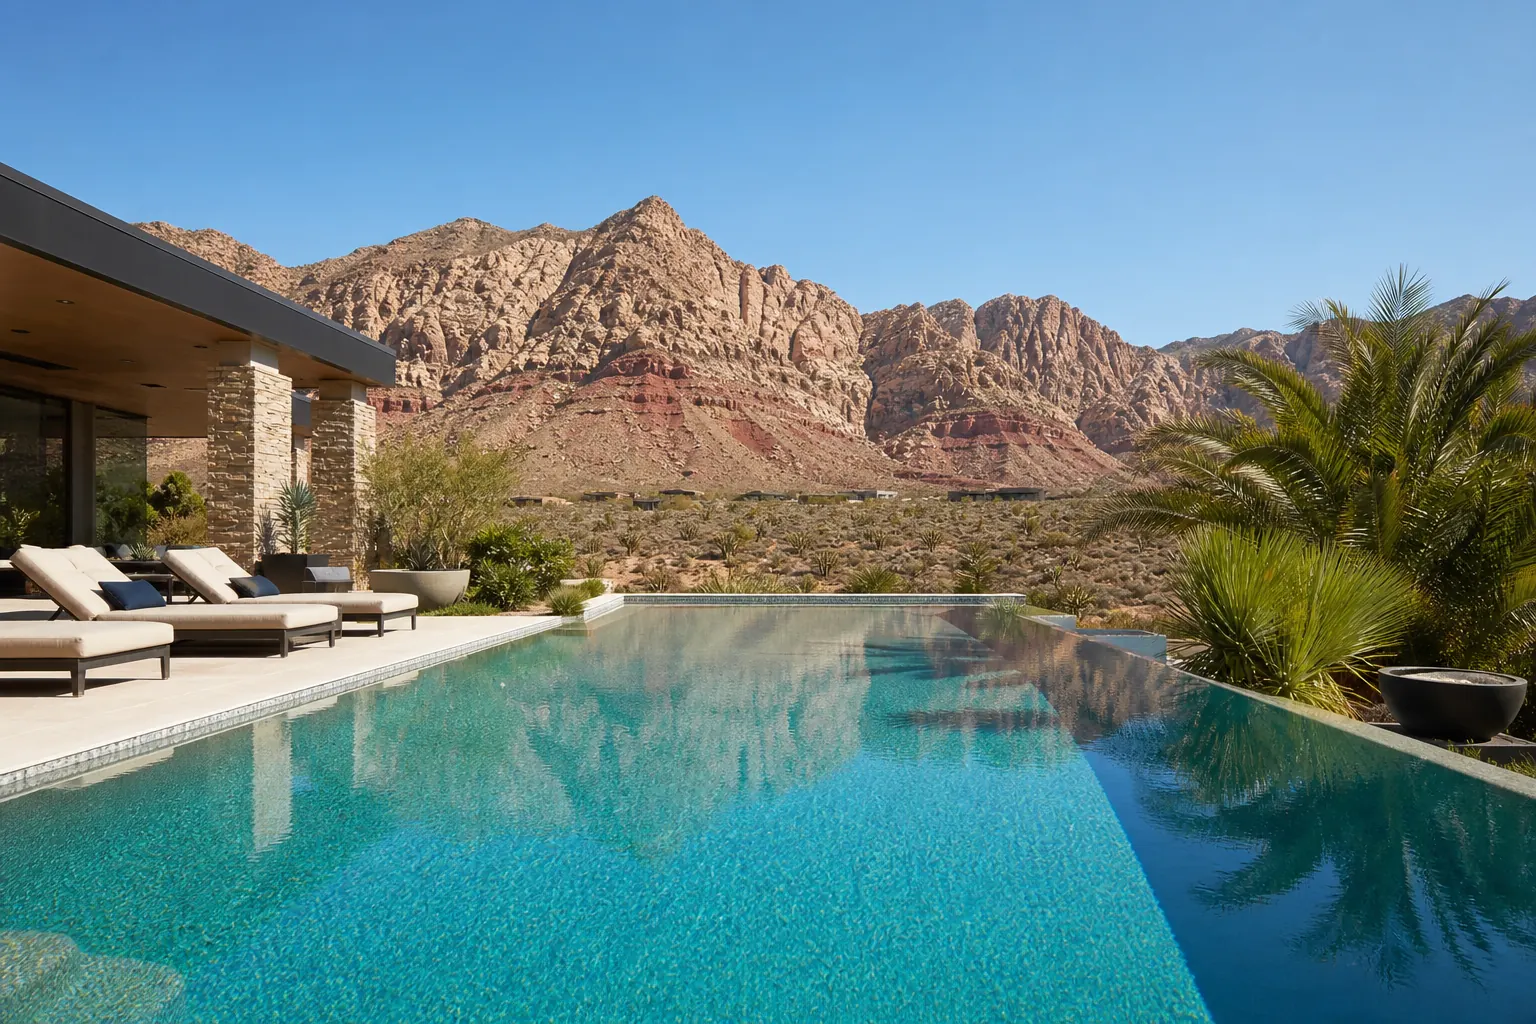
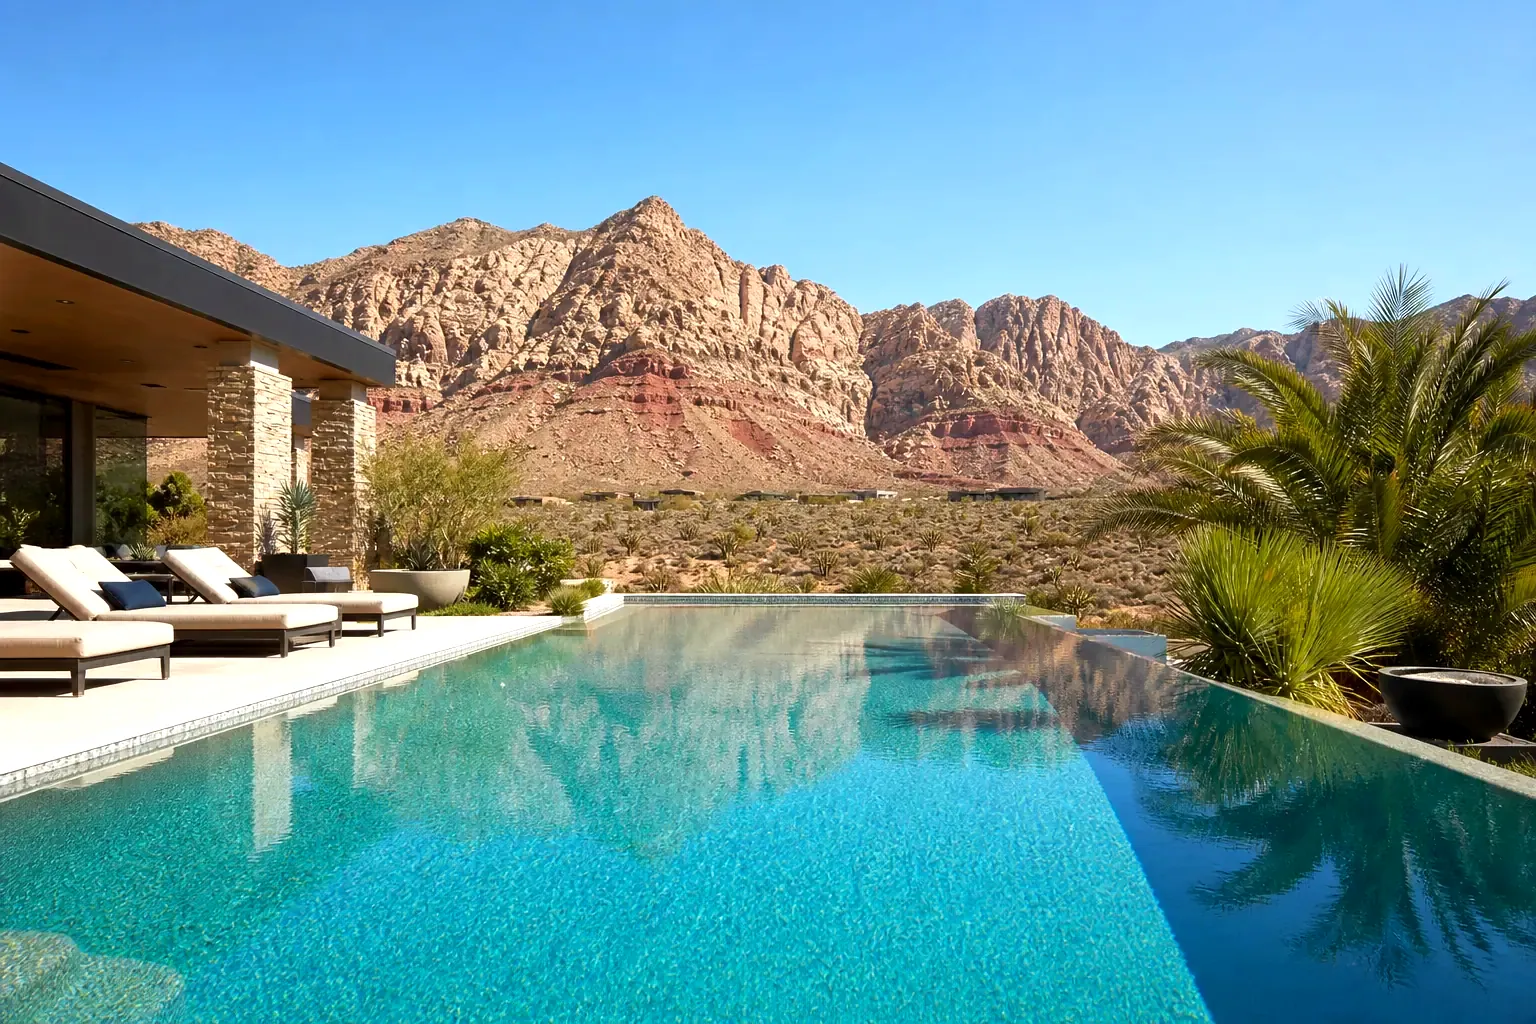
fix(heroes): brighten photos and put best aerial on homepage
- Promote bright midday neighborhood+Strip aerial to homepage hero
- Lighten PageHero overlay to soft gradients (was 65% dark wash)
- Brighten all hero WebPs; keep text readable with light shadow

diff --git a/src/components/sections/PageHero.tsx b/src/components/sections/PageHero.tsx
@@ -5,19 +5,16 @@ type PageHeroProps = {
   image: HeroImageKey;
   children: React.ReactNode;
   className?: string;
-  /** Dark overlay for text contrast over photography */
-  overlayClassName?: string;
 };
 
 /**
- * Full-bleed photographic hero. Keeps existing page content as children;
- * image sits edge-to-edge behind a readable overlay.
+ * Full-bleed photographic hero.
+ * Light gradient keeps the photo visible while protecting text contrast.
  */
 export default function PageHero({
   image,
   children,
   className = "",
-  overlayClassName = "bg-[#0A2540]/65",
 }: PageHeroProps) {
   const hero = HERO_IMAGES[image];
 
@@ -31,13 +28,20 @@ export default function PageHero({
         fill
         priority
         sizes="100vw"
-        className="object-cover object-center"
+        className="object-cover object-center scale-105 brightness-110 contrast-105"
       />
+      {/* Soft readable wash — not a flat dark curtain */}
       <div
-        className={`absolute inset-0 ${overlayClassName}`}
+        className="absolute inset-0 bg-gradient-to-b from-[#0A2540]/35 via-[#0A2540]/25 to-[#0A2540]/55"
         aria-hidden="true"
       />
-      <div className="relative z-10">{children}</div>
+      <div
+        className="absolute inset-0 bg-gradient-to-r from-[#0A2540]/30 via-transparent to-[#0A2540]/20"
+        aria-hidden="true"
+      />
+      <div className="relative z-10 [text-shadow:0_1px_2px_rgba(0,0,0,0.45),0_2px_12px_rgba(0,0,0,0.35)]">
+        {children}
+      </div>
     </section>
   );
 }

diff --git a/src/lib/hero-images.ts b/src/lib/hero-images.ts
@@ -4,12 +4,13 @@
  */
 export const HERO_IMAGES = {
   home: {
+    // Brightest relocation hero: sunlit residential valley + Strip
     src: "/heroes/home-las-vegas.webp",
-    alt: "Las Vegas Strip and valley skyline at golden hour",
+    alt: "Sunlit aerial view of Las Vegas neighborhoods with the Strip skyline beyond",
   },
   services: {
     src: "/heroes/services-overview.webp",
-    alt: "Aerial view of Las Vegas neighborhoods with the city skyline beyond",
+    alt: "Las Vegas valley and Strip skyline at golden hour",
   },
   residentialMoving: {
     src: "/heroes/residential-moving.webp",
